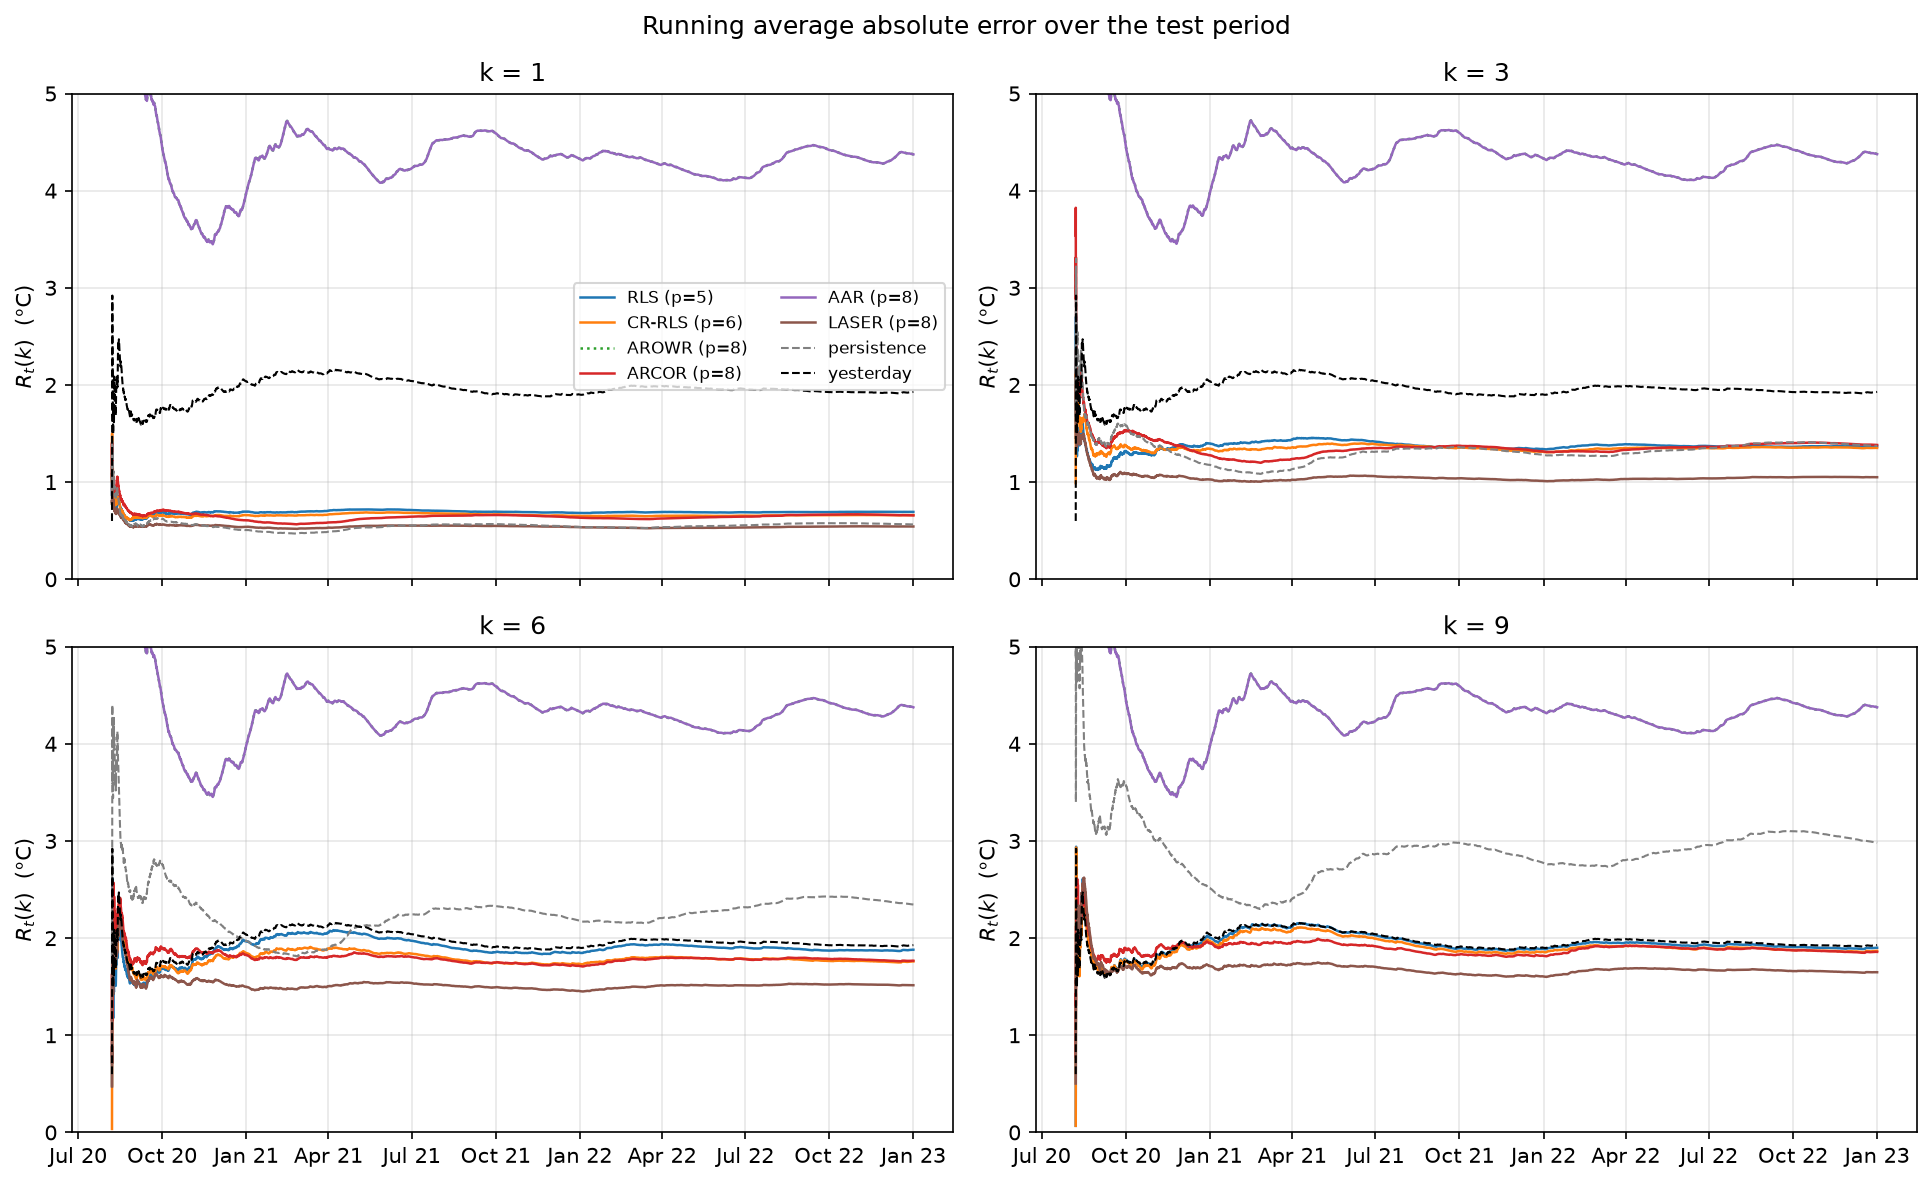
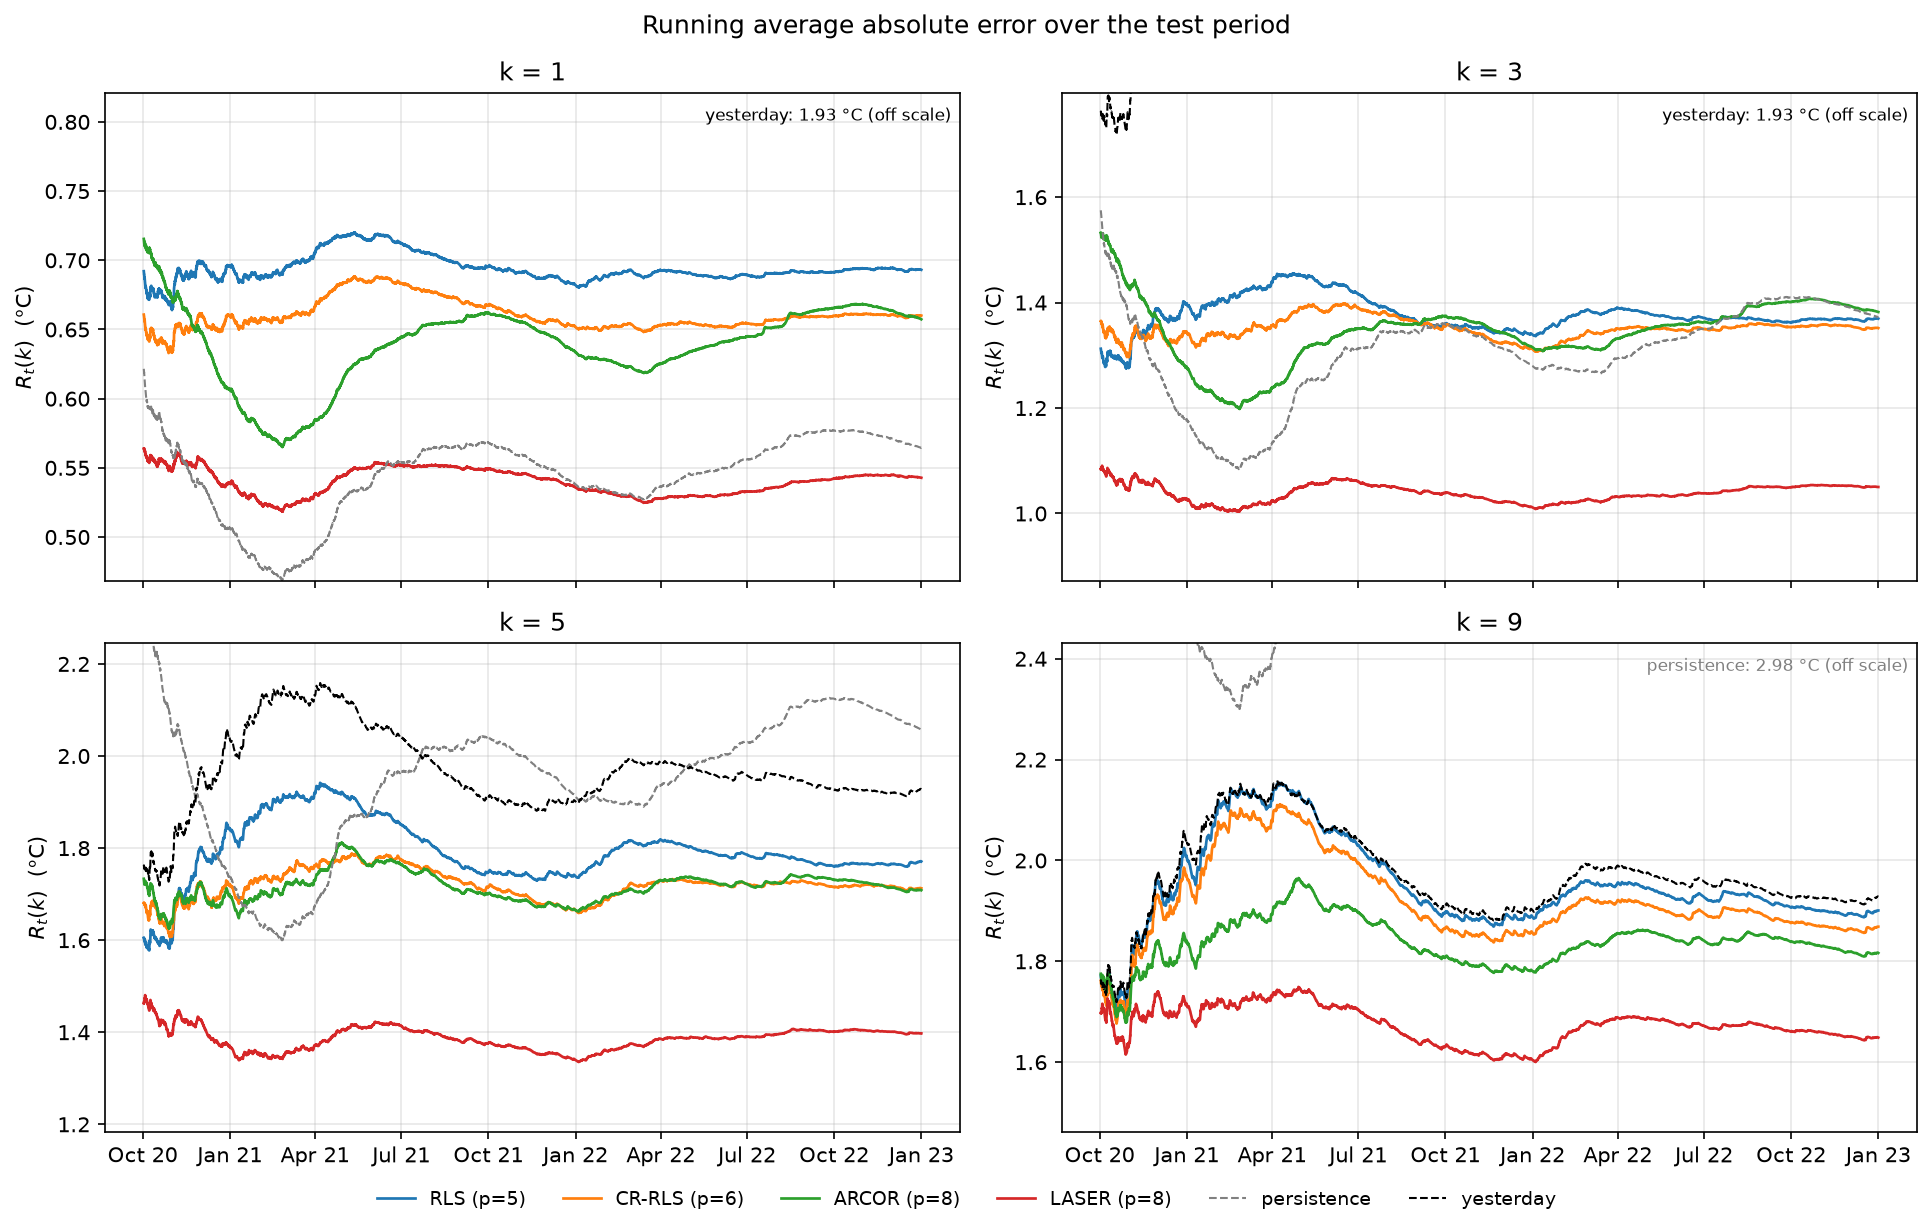
ARCOR: deterministic tie-break in tuning; update results and figures

diff --git a/online.py b/online.py
@@ -38,8 +38,9 @@ BASELINES = {                    # name -> function(y, k)
 }
 
 # ---------------------------------------------------------------- settings
-RUN_MODELS = ["RLS", "CR-RLS", "AROWR", "ARCOR", "AAR", "LASER"]  # which models to run (subset of MODELS.keys())
-RUN_BASELINES = ["persistence", "yesterday"]
+RUN_MODELS = ["ARCOR"]
+# ["AROWR", "ARCOR", "RLS", "CR-RLS", "AAR", "LASER"]  # which models to run (subset of MODELS.keys())
+RUN_BASELINES = [] # ["persistence", "yesterday"]
 P_GRID = range(3, 9)             # numbers of basis functions / knots: p = 3..7
 KS = tuple(range(1, 13))         # horizons k = 1..12
 TUNE_FRAC = 0.2                  # first 20% of hours used for tuning
@@ -138,7 +139,10 @@ def tune(model_cls, grid, X, y, tune_mask, ks=KS, metric="mse"):
     # Find the best parameter combination independently for each k
     best_params = {}
     for k in ks:
-        best_row = table[table["k"] == k].sort_values(metric).iloc[0]
+        best_row = (table[table["k"] == k]
+                    .assign(_m=lambda d: d[metric].round(10))
+                    .sort_values("_m", kind="stable")      # ties keep grid order
+                    .iloc[0])
         best_params[k] = {param: best_row[param] for param in grid.keys()}
 
     table = table.sort_values(["k", metric])
